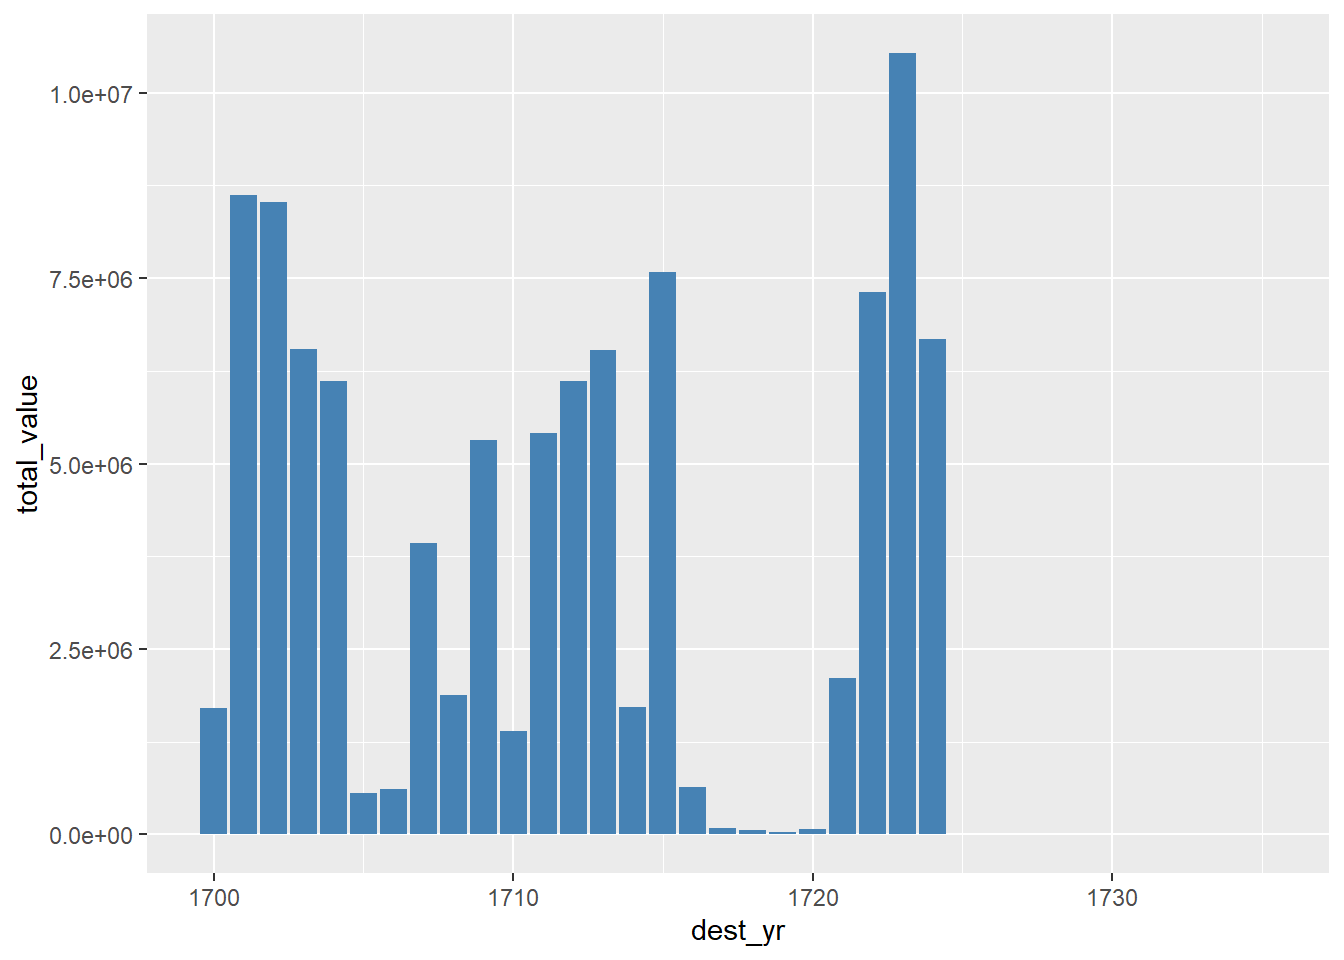
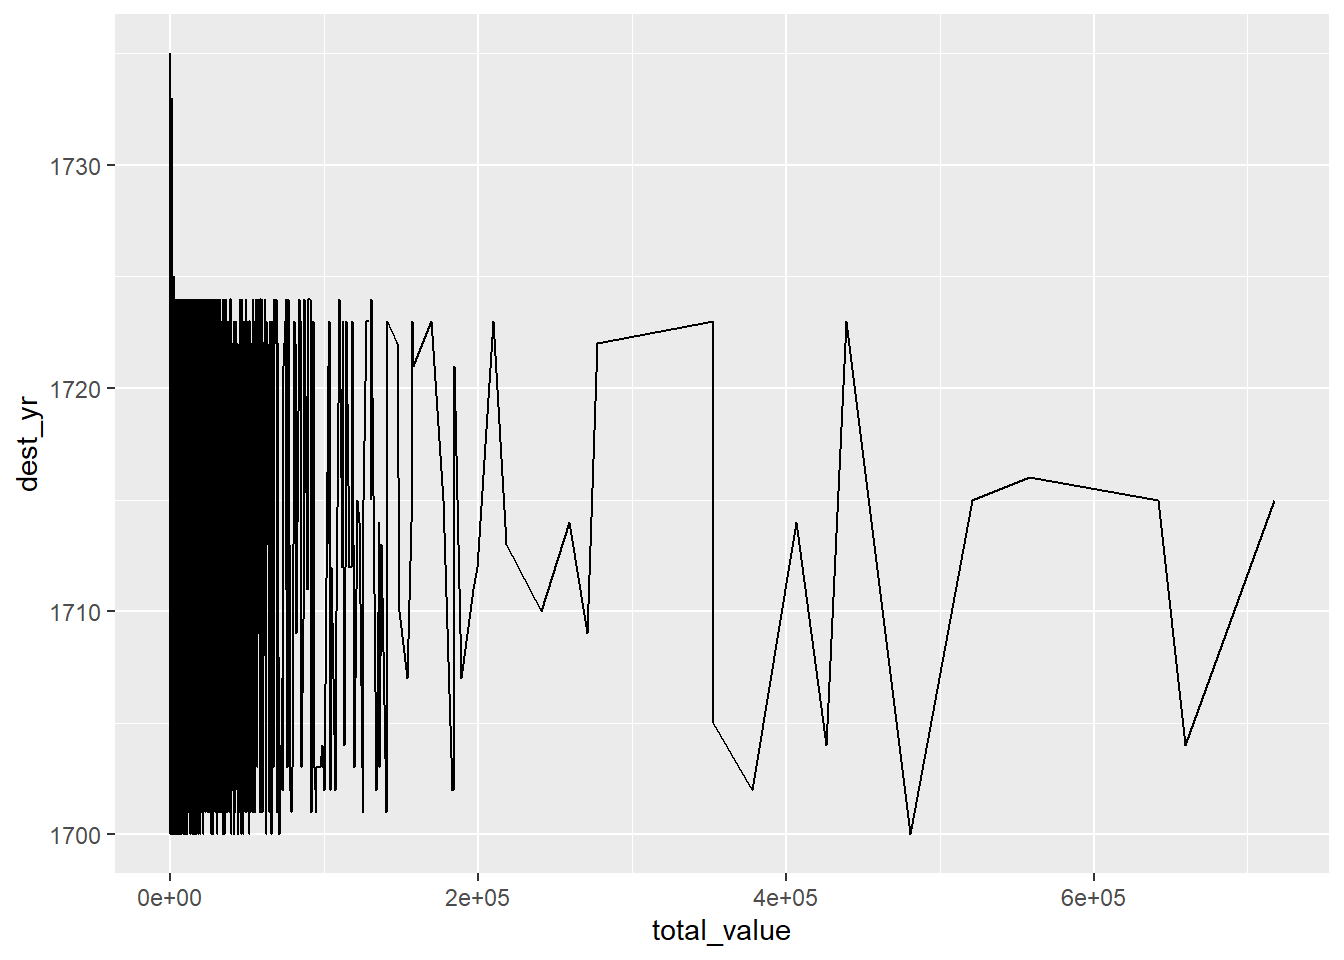
Built site for gh-pages

diff --git a/index.html b/index.html
@@ -7,7 +7,7 @@
 <meta name="viewport" content="width=device-width, initial-scale=1.0, user-scalable=yes">
 
 
-<title>materialstudy</title>
+<title>material study – materialstudy</title>
 <style>
 /* Default styles provided by pandoc.
 ** See https://pandoc.org/MANUAL.html#variables-for-html for config info.
@@ -152,7 +152,7 @@ pre > code.sourceCode > span > a:first-child::before { text-decoration: underlin
 
 <header id="title-block-header" class="quarto-title-block default">
 <div class="quarto-title">
-<h1 class="title">materialstudy</h1>
+<h1 class="title">material study</h1>
 </div>
 
 
@@ -190,15 +190,15 @@ pre > code.sourceCode > span > a:first-child::before { text-decoration: underlin
 </div>
 </div>
 </div>
-<p>In this graph the visualization is improved with the usage of a bar graph. However, there are issues with the scale and the readability. Ggplot cannot successfully read the “total value” column in the original excel sheet.</p>
+<p>Line graphs can be effective at showing change over time. The figure below shows a graph using geom_line rather than the geom_point function. However, this clearly is still not useful for visualizing the data. The line is cramped at the beginning, and the actual changes in the line doesn’t make sense.</p>
 <div class="cell">
-<div class="code-copy-outer-scaffold"><div class="sourceCode cell-code" id="cb3"><pre class="sourceCode r code-with-copy"><code class="sourceCode r"><span id="cb3-1"><a href="#cb3-1" aria-hidden="true" tabindex="-1"></a><span class="fu">ggplot</span>(<span class="at">data =</span> dtd,</span>
-<span id="cb3-2"><a href="#cb3-2" aria-hidden="true" tabindex="-1"></a>       <span class="at">mapping =</span> <span class="fu">aes</span>(<span class="at">x =</span> dest_yr,</span>
-<span id="cb3-3"><a href="#cb3-3" aria-hidden="true" tabindex="-1"></a>             <span class="at">y =</span> total_value)) <span class="sc">+</span></span>
-<span id="cb3-4"><a href="#cb3-4" aria-hidden="true" tabindex="-1"></a>             <span class="fu">geom_col</span>(<span class="at">fill=</span><span class="st">"steelblue"</span>)</span></code></pre></div><button title="Copy to Clipboard" class="code-copy-button"><i class="bi"></i></button></div>
+<div class="code-copy-outer-scaffold"><div class="sourceCode cell-code" id="cb3"><pre class="sourceCode r code-with-copy"><code class="sourceCode r"><span id="cb3-1"><a href="#cb3-1" aria-hidden="true" tabindex="-1"></a> dtd <span class="sc">|&gt;</span></span>
+<span id="cb3-2"><a href="#cb3-2" aria-hidden="true" tabindex="-1"></a>   <span class="fu">ggplot</span>(<span class="at">mapping =</span> <span class="fu">aes</span>(<span class="at">y =</span> dest_yr,</span>
+<span id="cb3-3"><a href="#cb3-3" aria-hidden="true" tabindex="-1"></a>                        <span class="at">x =</span> total_value)) <span class="sc">+</span></span>
+<span id="cb3-4"><a href="#cb3-4" aria-hidden="true" tabindex="-1"></a>                   <span class="fu">geom_line</span>()</span></code></pre></div><button title="Copy to Clipboard" class="code-copy-button"><i class="bi"></i></button></div>
 <div class="cell-output cell-output-stderr">
-<pre><code>Warning: Removed 2454 rows containing missing values or values outside the scale range
-(`geom_col()`).</code></pre>
+<pre><code>Warning: Removed 1892 rows containing missing values or values outside the scale range
+(`geom_line()`).</code></pre>
 </div>
 <div class="cell-output-display">
 <div>
@@ -208,15 +208,14 @@ pre > code.sourceCode > span > a:first-child::before { text-decoration: underlin
 </div>
 </div>
 </div>
-<p>Defining the x axis as continuous modifies the data to make it legible to ggplot. However, this graph is still not communicating the data in a useful way.</p>
+<p>In this figure the visualization is improved with the usage of a bar graph. However, there are issues with the scale and the readability. Ggplot cannot successfully read the “total value” column in the original excel sheet, and the bars also feel cramped and dificult to read.</p>
 <div class="cell">
 <div class="code-copy-outer-scaffold"><div class="sourceCode cell-code" id="cb5"><pre class="sourceCode r code-with-copy"><code class="sourceCode r"><span id="cb5-1"><a href="#cb5-1" aria-hidden="true" tabindex="-1"></a><span class="fu">ggplot</span>(<span class="at">data =</span> dtd,</span>
-<span id="cb5-2"><a href="#cb5-2" aria-hidden="true" tabindex="-1"></a>        <span class="at">mapping =</span> <span class="fu">aes</span>(<span class="at">y =</span> <span class="fu">factor</span>(dest_yr),</span>
-<span id="cb5-3"><a href="#cb5-3" aria-hidden="true" tabindex="-1"></a>              <span class="at">x =</span> total_value)) <span class="sc">+</span></span>
-<span id="cb5-4"><a href="#cb5-4" aria-hidden="true" tabindex="-1"></a>              <span class="fu">geom_col</span>(<span class="at">fill =</span> <span class="st">"steelblue"</span>) <span class="sc">+</span></span>
-<span id="cb5-5"><a href="#cb5-5" aria-hidden="true" tabindex="-1"></a>   <span class="fu">scale_x_continuous</span>(<span class="at">labels =</span> scales<span class="sc">::</span><span class="fu">label_comma</span>())</span></code></pre></div><button title="Copy to Clipboard" class="code-copy-button"><i class="bi"></i></button></div>
+<span id="cb5-2"><a href="#cb5-2" aria-hidden="true" tabindex="-1"></a>       <span class="at">mapping =</span> <span class="fu">aes</span>(<span class="at">x =</span> dest_yr,</span>
+<span id="cb5-3"><a href="#cb5-3" aria-hidden="true" tabindex="-1"></a>             <span class="at">y =</span> total_value)) <span class="sc">+</span></span>
+<span id="cb5-4"><a href="#cb5-4" aria-hidden="true" tabindex="-1"></a>             <span class="fu">geom_col</span>(<span class="at">fill=</span><span class="st">"steelblue"</span>)</span></code></pre></div><button title="Copy to Clipboard" class="code-copy-button"><i class="bi"></i></button></div>
 <div class="cell-output cell-output-stderr">
-<pre><code>Warning: Removed 1892 rows containing missing values or values outside the scale range
+<pre><code>Warning: Removed 2454 rows containing missing values or values outside the scale range
 (`geom_col()`).</code></pre>
 </div>
 <div class="cell-output-display">
@@ -227,6 +226,46 @@ pre > code.sourceCode > span > a:first-child::before { text-decoration: underlin
 </div>
 </div>
 </div>
+<p>Defining the x axis as continuous modifies the data to make it legible to ggplot. However, this graph is still not communicating the data in a useful way.</p>
+<div class="cell">
+<div class="code-copy-outer-scaffold"><div class="sourceCode cell-code" id="cb7"><pre class="sourceCode r code-with-copy"><code class="sourceCode r"><span id="cb7-1"><a href="#cb7-1" aria-hidden="true" tabindex="-1"></a><span class="fu">ggplot</span>(<span class="at">data =</span> dtd,</span>
+<span id="cb7-2"><a href="#cb7-2" aria-hidden="true" tabindex="-1"></a>        <span class="at">mapping =</span> <span class="fu">aes</span>(<span class="at">y =</span> <span class="fu">factor</span>(dest_yr),</span>
+<span id="cb7-3"><a href="#cb7-3" aria-hidden="true" tabindex="-1"></a>              <span class="at">x =</span> total_value)) <span class="sc">+</span></span>
+<span id="cb7-4"><a href="#cb7-4" aria-hidden="true" tabindex="-1"></a>              <span class="fu">geom_col</span>(<span class="at">fill =</span> <span class="st">"steelblue"</span>) <span class="sc">+</span></span>
+<span id="cb7-5"><a href="#cb7-5" aria-hidden="true" tabindex="-1"></a>   <span class="fu">scale_x_continuous</span>(<span class="at">labels =</span> scales<span class="sc">::</span><span class="fu">label_comma</span>())</span></code></pre></div><button title="Copy to Clipboard" class="code-copy-button"><i class="bi"></i></button></div>
+<div class="cell-output cell-output-stderr">
+<pre><code>Warning: Removed 1892 rows containing missing values or values outside the scale range
+(`geom_col()`).</code></pre>
+</div>
+<div class="cell-output-display">
+<div>
+<figure class="figure">
+<p><img src="index_files/figure-html/unnamed-chunk-5-1.png" class="img-fluid figure-img" width="672"></p>
+</figure>
+</div>
+</div>
+</div>
+<p>This figure finally presents legible information. The years are defined and it is clear what kinds of changes are occurring over time. In order to accomplish this I used the filter function to display total cost over time for one specific textile called “adathaies”.</p>
+<div class="cell">
+<div class="code-copy-outer-scaffold"><div class="sourceCode cell-code" id="cb9"><pre class="sourceCode r code-with-copy"><code class="sourceCode r"><span id="cb9-1"><a href="#cb9-1" aria-hidden="true" tabindex="-1"></a>dtd <span class="sc">|&gt;</span></span>
+<span id="cb9-2"><a href="#cb9-2" aria-hidden="true" tabindex="-1"></a> <span class="fu">filter</span>(textile_name <span class="sc">==</span> <span class="st">"adathaies"</span>) <span class="sc">|&gt;</span></span>
+<span id="cb9-3"><a href="#cb9-3" aria-hidden="true" tabindex="-1"></a>   <span class="fu">ggplot</span>(<span class="at">mapping =</span> <span class="fu">aes</span>(<span class="at">y =</span> <span class="fu">factor</span>(dest_yr),</span>
+<span id="cb9-4"><a href="#cb9-4" aria-hidden="true" tabindex="-1"></a>                        <span class="at">x =</span> total_value)) <span class="sc">+</span></span>
+<span id="cb9-5"><a href="#cb9-5" aria-hidden="true" tabindex="-1"></a>   <span class="fu">geom_col</span>(<span class="at">fill =</span> <span class="st">"steelblue"</span>) <span class="sc">+</span></span>
+<span id="cb9-6"><a href="#cb9-6" aria-hidden="true" tabindex="-1"></a>   <span class="fu">scale_x_continuous</span>(<span class="at">labels =</span> scales<span class="sc">::</span><span class="fu">label_comma</span>())</span></code></pre></div><button title="Copy to Clipboard" class="code-copy-button"><i class="bi"></i></button></div>
+<div class="cell-output cell-output-stderr">
+<pre><code>Warning: Removed 12 rows containing missing values or values outside the scale range
+(`geom_col()`).</code></pre>
+</div>
+<div class="cell-output-display">
+<div>
+<figure class="figure">
+<p><img src="index_files/figure-html/unnamed-chunk-6-1.png" class="img-fluid figure-img" width="672"></p>
+</figure>
+</div>
+</div>
+</div>
+<p>Something important to note is that while the graph above is effective at visualizing this specific data set, this does not indicate that there is one specific way that data should be graphed or plotted. By documenting my process for this project, I hope to showcase that graphing is not a one-step activity, but rather a process that requires experimentation and trial and error.</p>
 
 
 

diff --git a/about.html b/about.html
@@ -23,41 +23,6 @@ ul.task-list li input[type="checkbox"] {
   margin: 0 0.8em 0.2em -1em; /* quarto-specific, see https://github.com/quarto-dev/quarto-cli/issues/4556 */ 
   vertical-align: middle;
 }
-/* CSS for syntax highlighting */
-html { -webkit-text-size-adjust: 100%; }
-pre > code.sourceCode { white-space: pre; position: relative; }
-pre > code.sourceCode > span { display: inline-block; line-height: 1.25; }
-pre > code.sourceCode > span:empty { height: 1.2em; }
-.sourceCode { overflow: visible; }
-code.sourceCode > span { color: inherit; text-decoration: inherit; }
-div.sourceCode { margin: 1em 0; }
-pre.sourceCode { margin: 0; }
-@media screen {
-div.sourceCode { overflow: auto; }
-}
-@media print {
-pre > code.sourceCode { white-space: pre-wrap; }
-pre > code.sourceCode > span { text-indent: -5em; padding-left: 5em; }
-}
-pre.numberSource code
-  { counter-reset: source-line 0; }
-pre.numberSource code > span
-  { position: relative; left: -4em; counter-increment: source-line; }
-pre.numberSource code > span > a:first-child::before
-  { content: counter(source-line);
-    position: relative; left: -1em; text-align: right; vertical-align: baseline;
-    border: none; display: inline-block;
-    -webkit-touch-callout: none; -webkit-user-select: none;
-    -khtml-user-select: none; -moz-user-select: none;
-    -ms-user-select: none; user-select: none;
-    padding: 0 4px; width: 4em;
-  }
-pre.numberSource { margin-left: 3em;  padding-left: 4px; }
-div.sourceCode
-  {   }
-@media screen {
-pre > code.sourceCode > span > a:first-child::before { text-decoration: underline; }
-}
 </style>
 
 
@@ -169,13 +134,9 @@ pre > code.sourceCode > span > a:first-child::before { text-decoration: underlin
 </header>
 
 
-<p>About this site</p>
-<div class="cell">
-<div class="code-copy-outer-scaffold"><div class="sourceCode cell-code" id="cb1"><pre class="sourceCode r code-with-copy"><code class="sourceCode r"><span id="cb1-1"><a href="#cb1-1" aria-hidden="true" tabindex="-1"></a><span class="dv">1</span> <span class="sc">+</span> <span class="dv">1</span></span></code></pre></div><button title="Copy to Clipboard" class="code-copy-button"><i class="bi"></i></button></div>
-<div class="cell-output cell-output-stdout">
-<pre><code>[1] 2</code></pre>
-</div>
-</div>
+<p>This website is a student project that explores the possibilities of graphing using ggplot2 in rstudio. The data used was sourced from the “Dutch Textile Trade” digital project. You can visit the project <a href="https://dutchtextiletrade.org/">here</a>.</p>
+<p>It is titled “material study” as a reference to the data covering textile history, as well as a reference to exploring the possibilities and limitations of a medium.</p>
+<p>This is an ongoing project that will incorporate new data sets and methodologies in the future.</p>
 
 
 
